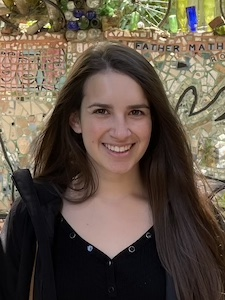
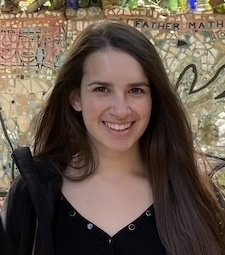
minor

diff --git a/assets/css/dark-academia.css b/assets/css/dark-academia.css
@@ -164,6 +164,9 @@ img {
   box-shadow: 0 6px 18px rgba(0, 0, 0, 0.08);
 }
 
+/* Desktop profile image sizing */
+.profile-photo { width: 180px; height: auto; }
+
 /* Horizontal rules */
 hr {
   border: none;
@@ -181,10 +184,23 @@ hr {
   padding: 0;
 }
 
+/* Faint divider between performances */
+.concert + .concert {
+  border-top: 1px solid var(--border);
+  padding-top: 12px;
+  margin-top: 12px;
+}
+
+
+
 .concert h3 a { color: var(--text); }
 .concert h3 a:hover { color: var(--link-hover); }
 
 .concert p strong { color: var(--muted); }
+
+/* Slightly smaller text within concert cards (override inline sizes) */
+.concert h3 { font-size: 1.3em !important; }
+.concert p { font-size: 1.05em !important; }
 
 /* Hide footer site-wide */
 .site-footer { display: none !important; }
@@ -254,7 +270,10 @@ blockquote {
   .profile-photo { float: none !important; display: block; margin: 10px 0 16px 0 !important; width: 100% !important; height: auto !important; }
 
   /* Stack concert entries and make posters full-width */
-  .concert { padding: 12px 0; }
+  .concert {
+    padding: 12px 0;
+    grid-template-columns: 1fr;
+  }
   .concert img {
     float: none !important;
     width: 100% !important;
